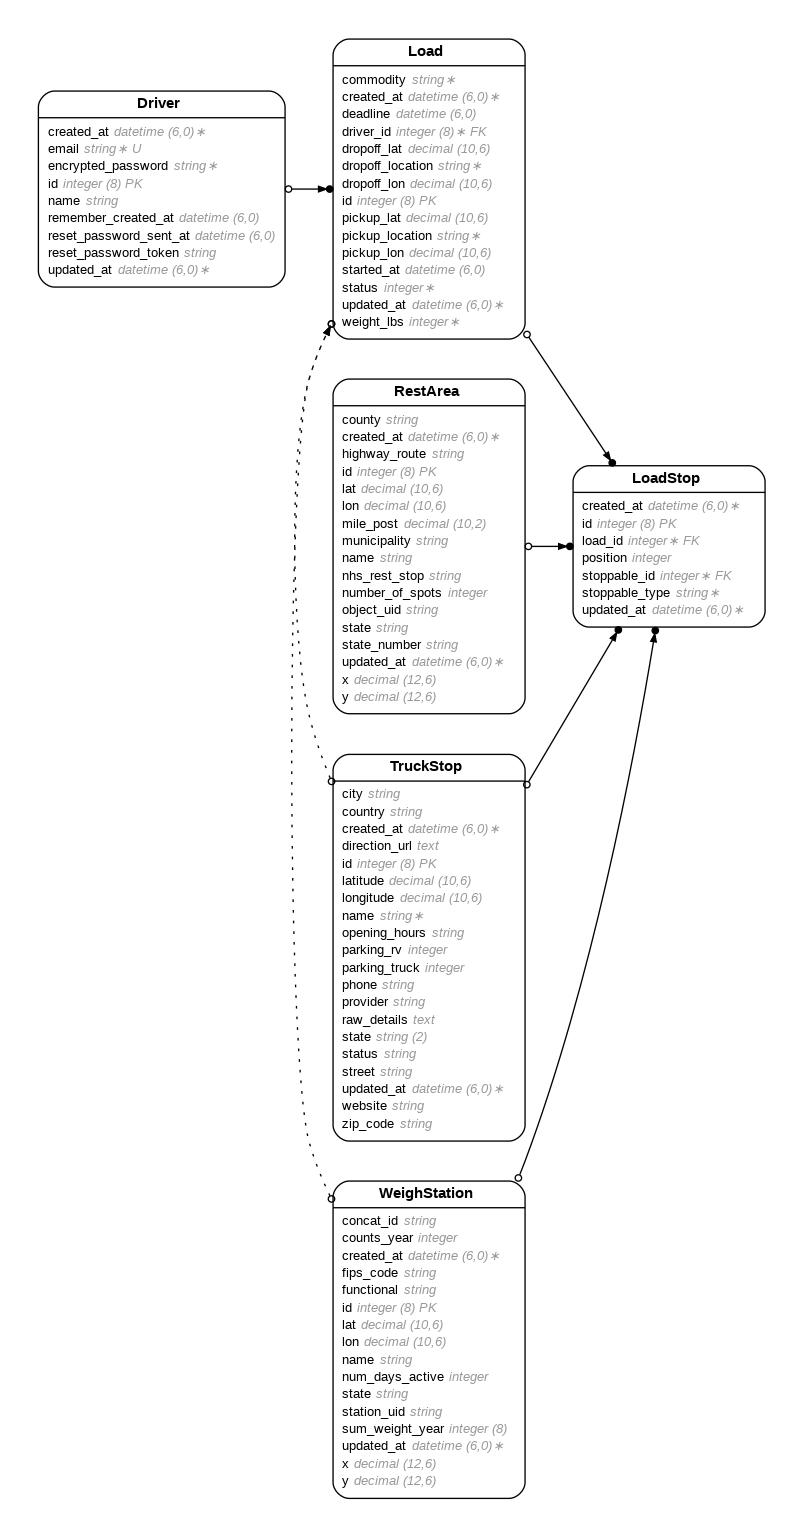
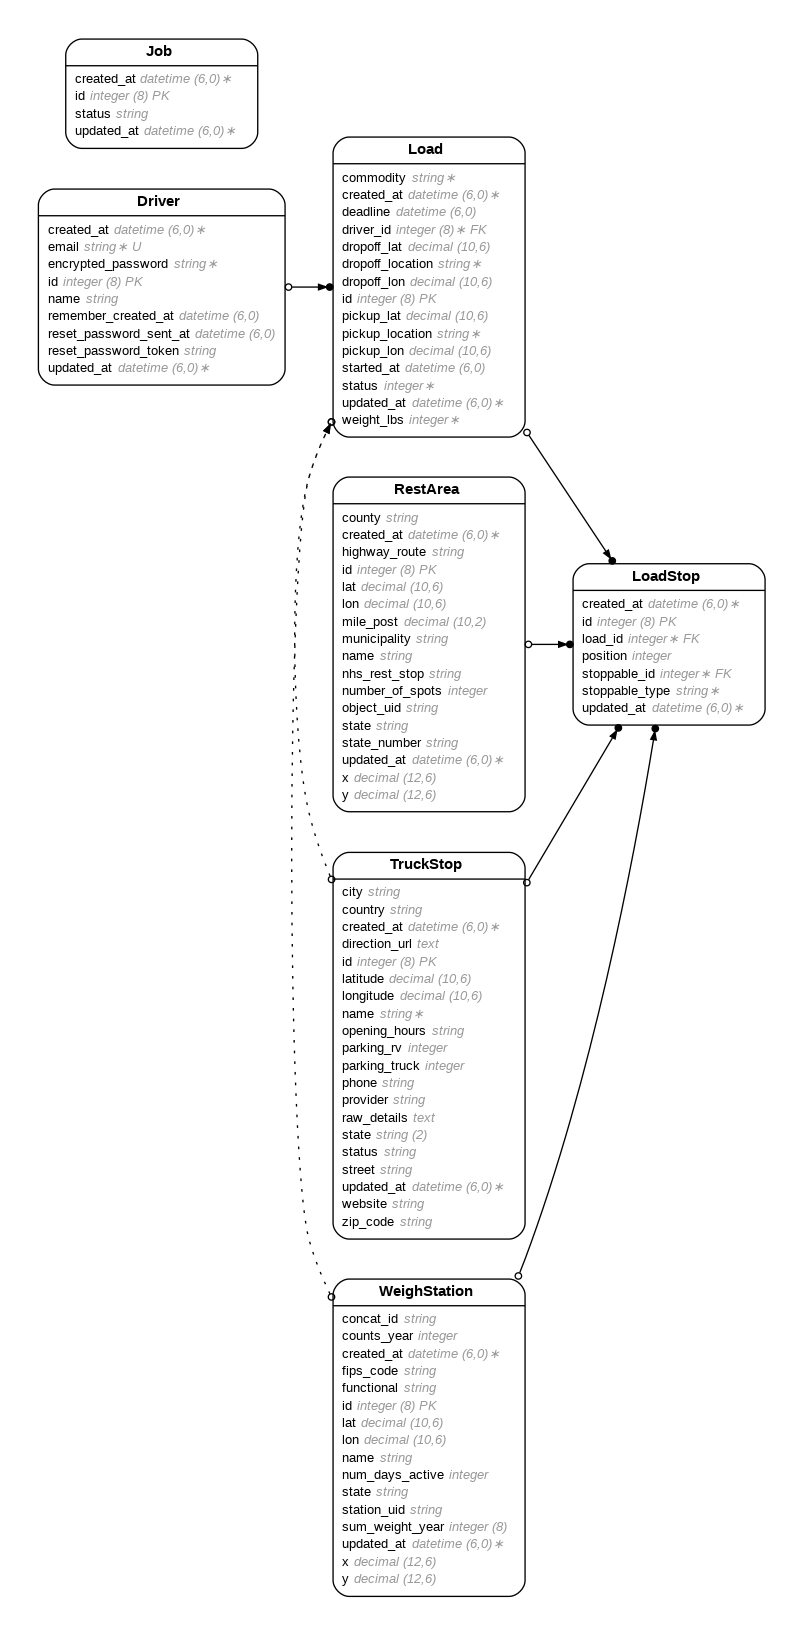
fixed database connection in  xata and fixed schema  exported csv to xata

diff --git a/db/schema.rb b/db/schema.rb
@@ -10,7 +10,7 @@
 #
 # It's strongly recommended that you check this file into your version control system.
 
-ActiveRecord::Schema[8.0].define(version: 2025_09_08_070258) do
+ActiveRecord::Schema[8.0].define(version: 2025_09_17_032904) do
   # These are extensions that must be enabled in order to support this database
   enable_extension "pg_catalog.plpgsql"
 
@@ -25,6 +25,12 @@ ActiveRecord::Schema[8.0].define(version: 2025_09_08_070258) do
     t.datetime "updated_at", null: false
     t.index ["email"], name: "index_drivers_on_email", unique: true
     t.index ["reset_password_token"], name: "index_drivers_on_reset_password_token", unique: true
+  end
+
+  create_table "jobs", force: :cascade do |t|
+    t.string "status"
+    t.datetime "created_at", null: false
+    t.datetime "updated_at", null: false
   end
 
   create_table "load_stops", force: :cascade do |t|
@@ -222,6 +228,25 @@ ActiveRecord::Schema[8.0].define(version: 2025_09_08_070258) do
     t.index ["key"], name: "index_solid_queue_semaphores_on_key", unique: true
   end
 
+  create_table "truck_stop_parkings", force: :cascade do |t|
+    t.string "state_number"
+    t.string "nhs_rest_stop"
+    t.string "highway_route"
+    t.decimal "mile_post", precision: 10, scale: 3
+    t.string "municipality"
+    t.string "county"
+    t.string "state"
+    t.decimal "latitude", precision: 10, scale: 6
+    t.decimal "longitude", precision: 10, scale: 6
+    t.integer "number_of_spots"
+    t.decimal "x", precision: 12, scale: 6
+    t.decimal "y", precision: 12, scale: 6
+    t.datetime "created_at", null: false
+    t.datetime "updated_at", null: false
+    t.index ["latitude", "longitude"], name: "index_truck_stop_parkings_on_latitude_and_longitude"
+    t.index ["state", "county"], name: "index_truck_stop_parkings_on_state_and_county"
+  end
+
   create_table "truck_stops", force: :cascade do |t|
     t.string "name", null: false
     t.string "provider"
@@ -263,9 +288,20 @@ ActiveRecord::Schema[8.0].define(version: 2025_09_08_070258) do
     t.string "name"
     t.datetime "created_at", null: false
     t.datetime "updated_at", null: false
+    t.string "station_id"
+    t.bigint "objectid"
+    t.decimal "latitude", precision: 10, scale: 6
+    t.decimal "longitude", precision: 10, scale: 6
     t.index ["lat", "lon"], name: "index_weigh_stations_on_lat_and_lon"
     t.index ["state", "functional"], name: "index_weigh_stations_on_state_and_functional"
     t.index ["station_uid"], name: "index_weigh_stations_on_station_uid", unique: true
+  end
+
+  create_table "widgets", id: :string, force: :cascade do |t|
+    t.string "name"
+    t.decimal "price"
+    t.datetime "created_at", null: false
+    t.datetime "updated_at", null: false
   end
 
   add_foreign_key "load_stops", "loads"

diff --git a/db/migrate/20250917032904_add_missing_cols_to_weigh_stations.rb b/db/migrate/20250917032904_add_missing_cols_to_weigh_stations.rb
@@ -1,0 +1,16 @@
+class AddMissingColsToWeighStations < ActiveRecord::Migration[8.0]
+  def change
+    add_column :weigh_stations, :station_id, :string  unless column_exists?(:weigh_stations, :station_id)
+    add_column :weigh_stations, :objectid,   :bigint  unless column_exists?(:weigh_stations, :objectid)
+
+    add_column :weigh_stations, :latitude,  :decimal, precision: 10, scale: 6 unless column_exists?(:weigh_stations, :latitude)
+    add_column :weigh_stations, :longitude, :decimal, precision: 10, scale: 6 unless column_exists?(:weigh_stations, :longitude)
+
+    add_column :weigh_stations, :lat, :decimal, precision: 10, scale: 6 unless column_exists?(:weigh_stations, :lat)
+    add_column :weigh_stations, :lon, :decimal, precision: 10, scale: 6 unless column_exists?(:weigh_stations, :lon)
+
+    add_column :weigh_stations, :name, :string unless column_exists?(:weigh_stations, :name)
+
+    add_index  :weigh_stations, [:lat, :lon] unless index_exists?(:weigh_stations, [:lat, :lon])
+  end
+end

diff --git a/db/migrate/20250917013545_create_truck_stop_parkings.rb b/db/migrate/20250917013545_create_truck_stop_parkings.rb
@@ -1,0 +1,22 @@
+class CreateTruckStopParkings < ActiveRecord::Migration[8.0]
+  def change
+    create_table :truck_stop_parkings do |t|
+      t.string  :state_number
+      t.string  :nhs_rest_stop
+      t.string  :highway_route
+      t.decimal :mile_post, precision: 10, scale: 3
+      t.string  :municipality
+      t.string  :county
+      t.string  :state
+      t.decimal :latitude,  precision: 10, scale: 6
+      t.decimal :longitude, precision: 10, scale: 6
+      t.integer :number_of_spots
+      t.decimal :x, precision: 12, scale: 6
+      t.decimal :y, precision: 12, scale: 6
+      t.timestamps
+    end
+    
+    add_index :truck_stop_parkings, [:state, :county]
+    add_index :truck_stop_parkings, [:latitude, :longitude]
+  end
+end

diff --git a/db/migrate/20250917025432_add_lat_lon_to_rest_areas.rb b/db/migrate/20250917025432_add_lat_lon_to_rest_areas.rb
@@ -1,0 +1,17 @@
+class AddLatLonToRestAreas < ActiveRecord::Migration[7.1]
+  def change
+    # add columns only if missing
+    add_column :rest_areas, :lat, :decimal, precision: 10, scale: 6 unless column_exists?(:rest_areas, :lat)
+    add_column :rest_areas, :lon, :decimal, precision: 10, scale: 6 unless column_exists?(:rest_areas, :lon)
+
+    # optional: ensure precision on existing columns
+    if column_exists?(:rest_areas, :lat)
+      change_column :rest_areas, :lat, :decimal, precision: 10, scale: 6
+    end
+    if column_exists?(:rest_areas, :lon)
+      change_column :rest_areas, :lon, :decimal, precision: 10, scale: 6
+    end
+
+    add_index :rest_areas, [:lat, :lon] unless index_exists?(:rest_areas, [:lat, :lon])
+  end
+end

diff --git a/db/migrate/20250917024212_add_name_to_rest_areas.rb b/db/migrate/20250917024212_add_name_to_rest_areas.rb
@@ -1,0 +1,8 @@
+class AddNameToRestAreas < ActiveRecord::Migration[8.0]
+  def up
+    add_column :rest_areas, :name, :string unless column_exists?(:rest_areas, :name)
+  end
+  def down
+    remove_column :rest_areas, :name if column_exists?(:rest_areas, :name)
+  end
+end

diff --git a/app/models/job.rb b/app/models/job.rb
@@ -1,3 +1,12 @@
+# == Schema Information
+#
+# Table name: jobs
+#
+#  id         :bigint           not null, primary key
+#  status     :string
+#  created_at :datetime         not null
+#  updated_at :datetime         not null
+#
 class Job < ApplicationRecord
  
 end
